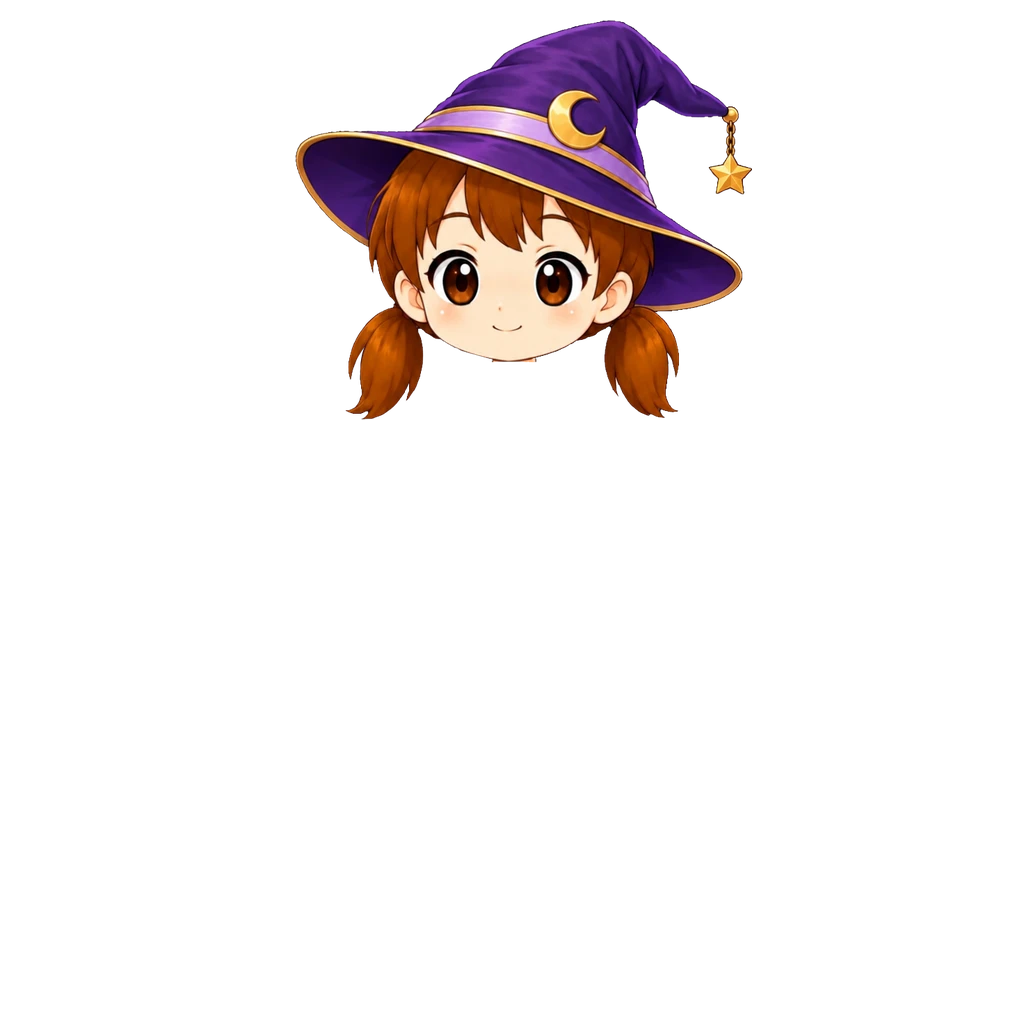
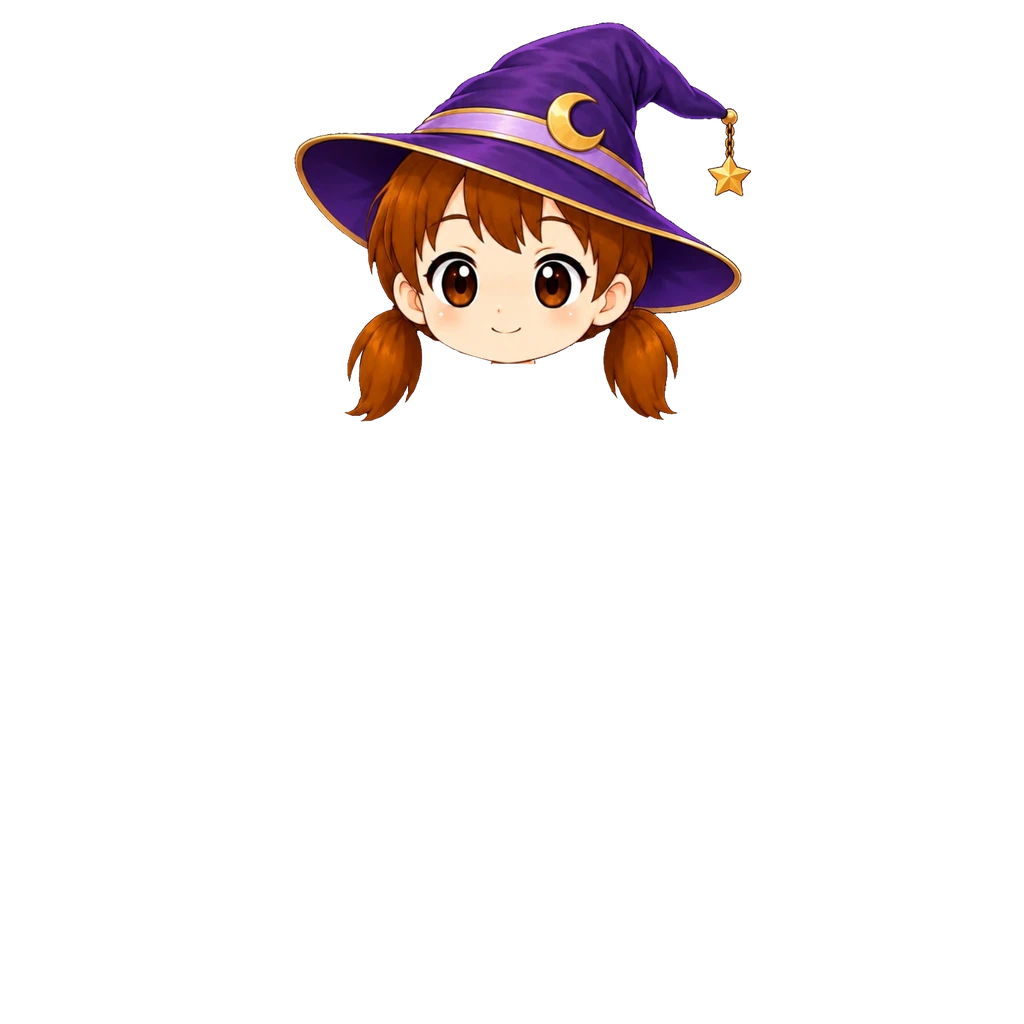
마법사 모자(여아) 아래로 2·왼쪽 1 (#887)
원점 (295,20)→(294,22). img ?v=2.

Claude-Session: https://claude.ai/code/session_018maNuYqDfFyRSe9uKpZhPR

diff --git a/src/data/avatarEquipment.js b/src/data/avatarEquipment.js
@@ -247,8 +247,9 @@ export const AVATAR_CATALOG = [
   { id: "hat_cloud_girl", slot: "hat",   label: "구름 모자", emoji: "☁", price:DECOR_PRICE.rare, rarity: "rare", theme: "common", forGender: "girl", hidesHead: true, img: "assets/avatar/hat/cloud-hat-girl.webp?v=3", thumb: "assets/avatar/thumb/hat_cloud_girl.webp" },
   /* 마법사 모자 [2026-10-04] — 여아. 보라 마법사 모자(금 초승달·별 장식) + 얼굴·양갈래 머리 한 장(사용자 원화 657×574). 달빛 마법사 옷과 짝.
      들꽃 머리띠와 같은 방식(hidesHead) — 얼굴 템플릿 매칭(일치 0.943)으로 배율 0.696, 원점 (295,20). 아래는 자르지 않음.
-     탑재 상자 (295,20,752,420). */
-  { id: "hat_wizard_girl", slot: "hat",  label: "마법사 모자", emoji: "🧙♀", price:DECOR_PRICE.epic, rarity: "epic", theme: "common", forGender: "girl", hidesHead: true, img: "assets/avatar/hat/wizard-hat-girl.webp", thumb: "assets/avatar/thumb/hat_wizard_girl.webp" },
+     탑재 상자 (295,20,752,420).
+     [2026-10-04] 사용자 조정 — 아래로 2·왼쪽으로 1(원점 (294,22)). 탑재 상자 (294,22,751,422). img ?v=2. */
+  { id: "hat_wizard_girl", slot: "hat",  label: "마법사 모자", emoji: "🧙♀", price:DECOR_PRICE.epic, rarity: "epic", theme: "common", forGender: "girl", hidesHead: true, img: "assets/avatar/hat/wizard-hat-girl.webp?v=2", thumb: "assets/avatar/thumb/hat_wizard_girl.webp" },
   /* 남아 사파리 모자 [2026-10-02] — 모자+얼굴 한 장(사용자 원화)이라 hidesHead: 쓰면 머리카락 머리 장이 빠지고
      민머리 위에 얹힌다(베이스 v10 구조). 얼굴(눈~입) 템플릿 매칭으로 맞춤(배율 0.4065 · 일치 0.970).
      원화에 달린 목은 z50 이라 높은 깃(우주복·후드·도토리)을 덮어서 기본 머리 장처럼 y404 에서 잘랐다. */

diff --git a/art-src/README.md b/art-src/README.md
@@ -608,4 +608,4 @@ bbox로 여백만 잘라내고 배포본은 높이 480px로 축소했다(전부 
 | post-cap-girl-src.webp | **우편부 모자 원화 여아 — 모자+얼굴 한 장 (사용자 원화 2026-10-04)** — 파란 우편모(날개 편지 배지) + 얼굴·양갈래 머리. hidesHead 로 여아 기본 머리를 대신한다. 얼굴 템플릿 매칭(일치 0.916)으로 배율 0.668·원점 (351,68), 아래는 자르지 않음. 탑재 상자 (351,68,678,418). **[2026-10-04 조정]** 3% 크게(0.688)·오른쪽 1, 원점 (347,60) · img ?v=2. 아래로 1(원점 (347,61)) · img ?v=3. 1% 크게(0.6949, 원점 (345,58)) · img ?v=4. 상점 그림은 원화를 세로 160px 로 | avatar/hat/post-cap-girl.webp · thumb/hat_post_girl.webp |
 | chef-hat-girl-src.webp | **요리사 모자 원화 여아 — 모자+얼굴 한 장 (사용자 원화 2026-10-04)** — 흰 요리사 모자(분홍 띠·크루아상 장식) + 얼굴·양갈래 머리. hidesHead 로 여아 기본 머리를 대신한다. 얼굴 템플릿 매칭(일치 0.924)으로 배율 0.660·원점 (348,28), 아래는 자르지 않음. 탑재 상자 (349,28,691,413). **[2026-10-04 조정]** 3% 크게(0.6798, 원점 (343,18)) · img ?v=2. 1% 더 크게(0.6866, 원점 (341,15)) · img ?v=3. 아래로 3(원점 (341,18)) · img ?v=4. 아래로 1 더(원점 (341,19)) · img ?v=5. 상점 그림은 원화를 세로 160px 로 | avatar/hat/chef-hat-girl.webp · thumb/hat_chef_girl.webp |
 | cloud-hat-girl-src.webp | **구름 모자 원화 여아 — 모자+얼굴 한 장 (사용자 원화 2026-10-04)** — 노란 벙거지(청록 띠·무지개 구름 장식) + 얼굴·양갈래 머리. hidesHead 로 여아 기본 머리를 대신한다. 얼굴 템플릿 매칭(일치 0.959)으로 배율 0.676·원점 (333,74), 아래는 자르지 않음. 탑재 상자 (333,74,695,415). **[2026-10-04 조정]** 3% 크게(0.6963, 원점 (328,66)) · img ?v=2. 아래로 2(원점 (328,68)) · img ?v=3. 상점 그림은 원화를 세로 160px 로 | avatar/hat/cloud-hat-girl.webp · thumb/hat_cloud_girl.webp |
-| wizard-hat-girl-src.webp | **마법사 모자 원화 여아 — 모자+얼굴 한 장 (사용자 원화 2026-10-04)** — 보라 마법사 모자(금 초승달·별 장식) + 얼굴·양갈래 머리. hidesHead 로 여아 기본 머리를 대신한다. 얼굴 템플릿 매칭(일치 0.943)으로 배율 0.696·원점 (295,20), 아래는 자르지 않음. 탑재 상자 (295,20,752,420). 상점 그림은 원화를 세로 160px 로 | avatar/hat/wizard-hat-girl.webp · thumb/hat_wizard_girl.webp |
+| wizard-hat-girl-src.webp | **마법사 모자 원화 여아 — 모자+얼굴 한 장 (사용자 원화 2026-10-04)** — 보라 마법사 모자(금 초승달·별 장식) + 얼굴·양갈래 머리. hidesHead 로 여아 기본 머리를 대신한다. 얼굴 템플릿 매칭(일치 0.943)으로 배율 0.696·원점 (295,20), 아래는 자르지 않음. 탑재 상자 (295,20,752,420). **[2026-10-04 조정]** 아래로 2·왼쪽 1(원점 (294,22)) · img ?v=2. 상점 그림은 원화를 세로 160px 로 | avatar/hat/wizard-hat-girl.webp · thumb/hat_wizard_girl.webp |
